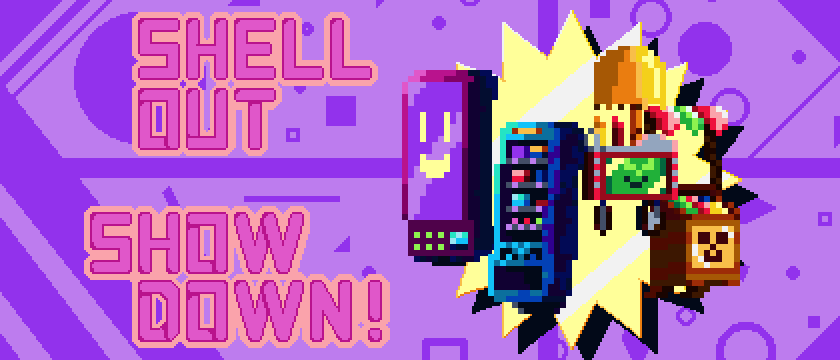
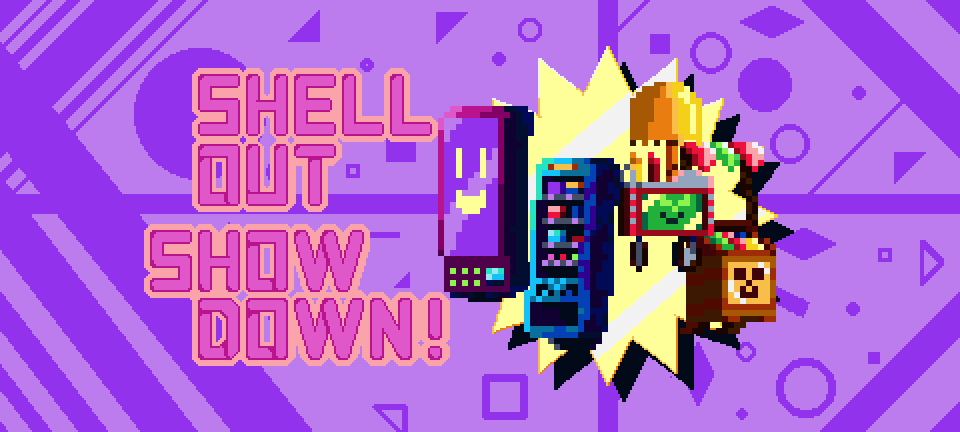
added wider shellout image

diff --git a/shell-out-showdown.md b/shell-out-showdown.md
@@ -2,7 +2,7 @@
 layout: post
 title: Shell Out Showdown
 description: A food-fight battle royale set in the near future.
-tile-image: assets/images/shelloutWide.png
+tile-image: assets/images/shelloutUltraWide.png
 nav-menu: true
 show-tile-title: false
 tile-index: 1
